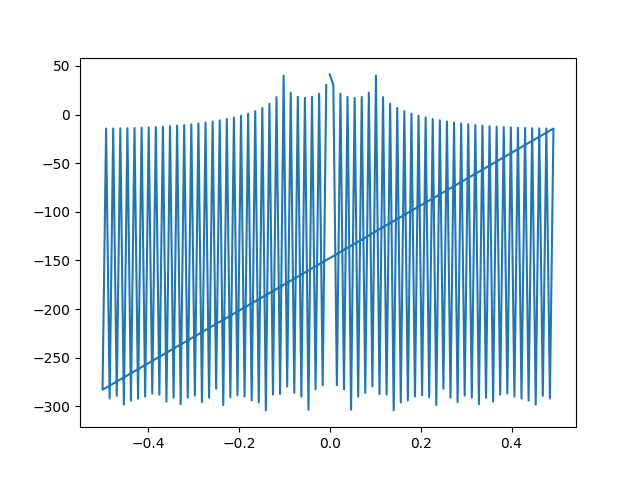
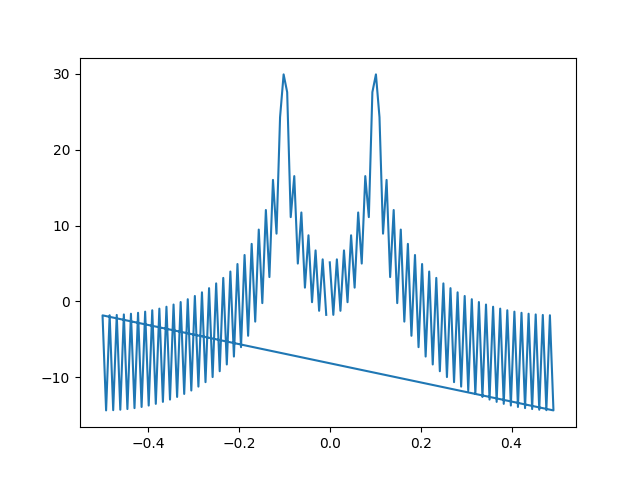
figs

diff --git a/TP1/4TFD.py b/TP1/4TFD.py
@@ -135,6 +135,15 @@ def conv(x, h):
 
     return Y    
 
+
+def mult(L,L2):
+
+    Y = []
+    for i in range(min(len(L), len(L2))):
+        Y.append(L[i] * L2[i])
+
+    return Y
+
 class Cosinus:
 
     def __init__(self, N, nu0):
@@ -186,7 +195,7 @@ class Cosinus:
 
     def obspec(self, H, Nfft, nu0):
 
-        Y = conv(self, H)
+        Y = mult(self.COS, H.getAllValues())
 
         t = np.arange(Nfft)
         sp = np.fft.fft(Y, n = Nfft)
@@ -199,22 +208,20 @@ class Cosinus:
 
         plt.plot(freq, Y)    
 
-        plt.savefig("/Users/gui/Documents/IRCAM/SignalProcessing/Figs/TFD/TFD_"+ str(Nfft)+"_"+str(nu0)+ "_" +H.getName() +".png")
+        plt.savefig("/Users/gui/Documents/IRCAM/SignalProcessing/TP1/Figs/TFD/TFD_"+ str(Nfft)+"_"+str(nu0)+ "_" +H.getName() +".png")
 
         plt.show() 
 
 
 def main():
     N = 64
-    nu0 = 0.1
+    nu0 = 0.125
     NfftL = [32, 64, 128, 1024]
 
 
     for Nfft in NfftL:
 
         S = Cosinus(N, nu0)
-
-        S.plot()
 
         H = BoxCar(N)
         S.obspec(H, Nfft, nu0)

diff --git a/TP1/Loupe.py b/TP1/Loupe.py
@@ -402,14 +402,14 @@ def main():
     X5.plotFFT()
 
     d1 = 0.1
-    d2 = 1/100
+    d2 = 1/100000000
 
     # Compute the order of the filter
     Nua = 0.3
     Nuc = 0.06
     O = int(2/(3*(Nua - Nuc)) * math.log10(1/(10*d1*d2)))
 
-    h = Func(signal.remez(O, [0, Nuc, Nua, 0.5], [d2, d1]))
+    h = Func(signal.remez(O, [0, Nuc, Nua, 0.5], [M, 0], [1/d2, 1/d1]))
 
     X6 = Func(conv(X5, h))
 
